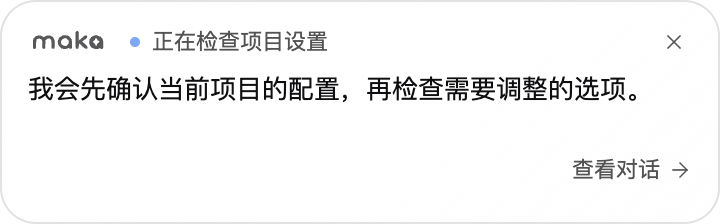
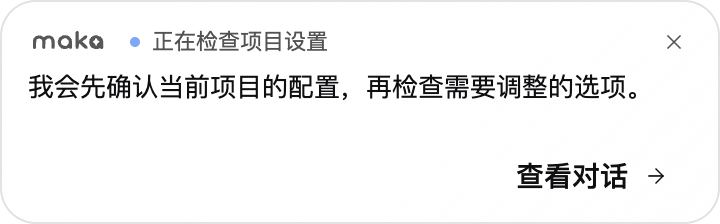
fix(desktop): use Astryx button in WorkHub progress card
Replace the raw control with the shared Button primitive and regenerate the Astryx surface inventory.

Generated-by: OpenAI Codex

Changed region(s): [[0.0306, 0.3125, 0.8861, 0.4688], [0.7028, 0.6875, 0.9778, 0.8438]]

diff --git a/apps/desktop/src/renderer/styles/workhub.css b/apps/desktop/src/renderer/styles/workhub.css
@@ -211,7 +211,7 @@ html:has(.workHubLive), body:has(.workHubLive), #root:has(.workHubLive) { backgr
 .workHubLive[data-progress-parked='true'] { visibility: hidden; pointer-events: none; }
 .workHubProgressCard {
   position: fixed; inset: 0 auto auto 0; width: 360px; height: 112px; box-sizing: border-box;
-  display: flex; flex-direction: column; gap: 5px; padding: 11px 13px 9px;
+  display: flex; flex-direction: column; gap: 4px; padding: 11px 13px 9px;
   border: 1px solid color-mix(in oklch, var(--foreground) 12%, transparent); border-radius: 18px;
   background: linear-gradient(135deg, color-mix(in oklch, var(--background) 96%, transparent), color-mix(in oklch, var(--background) 88%, transparent));
   color: var(--foreground); overflow: hidden; -webkit-app-region: drag;
@@ -224,6 +224,4 @@ body:has(.workHubProgressCard)::after { width: 360px; height: 112px; border-radi
 .workHubProgressStatus i[data-active='true'] { background: var(--maka-brand); }
 .workHubProgressCard .workHubProgressClose { width: 18px; height: 18px; min-width: 18px; padding: 0; -webkit-app-region: no-drag; color: var(--muted-foreground); }
 .workHubProgressText { margin: 0; height: 36px; font-size: 13px; line-height: 18px; display: -webkit-box; -webkit-line-clamp: 2; -webkit-box-orient: vertical; overflow: hidden; }
-.workHubProgressOpen { align-self: flex-end; display: flex; align-items: center; gap: 4px; padding: 1px 0; border: 0; background: transparent; color: var(--muted-foreground); font: inherit; font-size: 11px; cursor: pointer; -webkit-app-region: no-drag; }
-.workHubProgressOpen:hover { color: var(--foreground); }
-.workHubProgressOpen:focus-visible { outline: 2px solid var(--maka-brand); outline-offset: 2px; border-radius: 3px; }
+.workHubProgressOpen { align-self: flex-end; -webkit-app-region: no-drag; }

diff --git a/apps/desktop/src/renderer/features/workhub/ui/workhub-progress-card.tsx b/apps/desktop/src/renderer/features/workhub/ui/workhub-progress-card.tsx
@@ -18,7 +18,7 @@
  */
 
 import { useEffect } from 'react';
-import { IconButton } from '@astryxdesign/core';
+import { Button, IconButton } from '@astryxdesign/core';
 import { MakaWordmark, useUiLocale, type LiveTurnProjection } from '@maka/ui';
 import { ArrowRight, X } from '@maka/ui/icons';
 import type { StoredMessage } from '@maka/core/session';
@@ -64,6 +64,6 @@ export function WorkHubProgressCard({ request, control, liveTurn, messages, busy
       <IconButton className="workHubProgressClose" size="sm" variant="ghost" icon={<X size={12} />} label={t.progressClose} onClick={() => { void presentation.hide().catch(console.error); }} />
     </div>
     <p className="workHubProgressText">{spoken?.replace(/\s+/g, ' ').trim() || t.progressHint}</p>
-    <button className="workHubProgressOpen" type="button" onClick={() => { void presentation.showConversation().catch(console.error); }}>{t.progressOpen}<ArrowRight size={12} /></button>
+    <Button className="workHubProgressOpen" size="sm" variant="ghost" label={t.progressOpen} endContent={<ArrowRight size={12} />} onClick={() => { void presentation.showConversation().catch(console.error); }} />
   </aside>;
 }

diff --git a/docs/astryx-surface-file-inventory.md b/docs/astryx-surface-file-inventory.md
@@ -6,7 +6,7 @@ Generated against `@astryxdesign/core@0.5.2` (194 component exports).
 
 Wiki bar: Design Conventions · API Use-the-System · Theming · Container Padding.
 
-**Totals:** 266 files — blocker 0, reimplementation 0, polish 2, aligned 264.
+**Totals:** 267 files — blocker 0, reimplementation 0, polish 2, aligned 265.
 
 ## Exclusions (explicit)
 
@@ -31,7 +31,7 @@ Wiki bar: Design Conventions · API Use-the-System · Theming · Container Paddi
 | `apps/desktop/src/renderer/app-shell-chrome-actions.tsx` | shell-chrome-or-panel | Icon, IconButton, Tooltip | aligned — uses Astryx (Icon, IconButton, Tooltip) | aligned |
 | `apps/desktop/src/renderer/app-shell-detail-panel.tsx` | shell-chrome-or-panel | none | aligned — no raw controls; no Astryx JSX usage | aligned |
 | `apps/desktop/src/renderer/app-shell-overlays.tsx` | shell-chrome-or-panel | Spinner | aligned — uses Astryx (Spinner) | aligned |
-| `apps/desktop/src/renderer/app-shell.tsx` | shell-chrome-or-panel | AppShell, Button | aligned — uses Astryx (AppShell, Button) | aligned |
+| `apps/desktop/src/renderer/app-shell.tsx` | shell-chrome-or-panel | AppShell | aligned — uses Astryx (AppShell) | aligned |
 | `apps/desktop/src/renderer/app.tsx` | other | Theme | aligned — uses Astryx (Theme) | aligned |
 | `apps/desktop/src/renderer/application/contracts/feature-services.tsx` | other | none | aligned — no raw controls; no Astryx JSX usage | aligned |
 | `apps/desktop/src/renderer/cascade-layers.css` | styles | n/a (css) | aligned — no off-rhythm control heights flagged | aligned |
@@ -106,6 +106,7 @@ Wiki bar: Design Conventions · API Use-the-System · Theming · Container Paddi
 | `apps/desktop/src/renderer/features/workhub/ui/workhub-conversation.tsx` | other | Button | aligned — uses Astryx (Button) | aligned |
 | `apps/desktop/src/renderer/features/workhub/ui/workhub-dock.tsx` | other | Button | aligned — uses Astryx (Button) | aligned |
 | `apps/desktop/src/renderer/features/workhub/ui/workhub-navigation-rail.tsx` | other | Button, List, ListItem, StatusDot | aligned — uses Astryx (Button, List, ListItem, StatusDot) | aligned |
+| `apps/desktop/src/renderer/features/workhub/ui/workhub-progress-card.tsx` | other | Button, IconButton | aligned — uses Astryx (Button, IconButton) | aligned |
 | `apps/desktop/src/renderer/features/workhub/ui/workhub-root.tsx` | other | Button, IconButton | aligned — uses Astryx (Button, IconButton) | aligned |
 | `apps/desktop/src/renderer/features/workhub/ui/workhub-surface-switch.tsx` | other | none | aligned — no raw controls; no Astryx JSX usage | aligned |
 | `apps/desktop/src/renderer/features/workhub/ui/workhub-work-identity.tsx` | other | none | aligned — no raw controls; no Astryx JSX usage | aligned |
